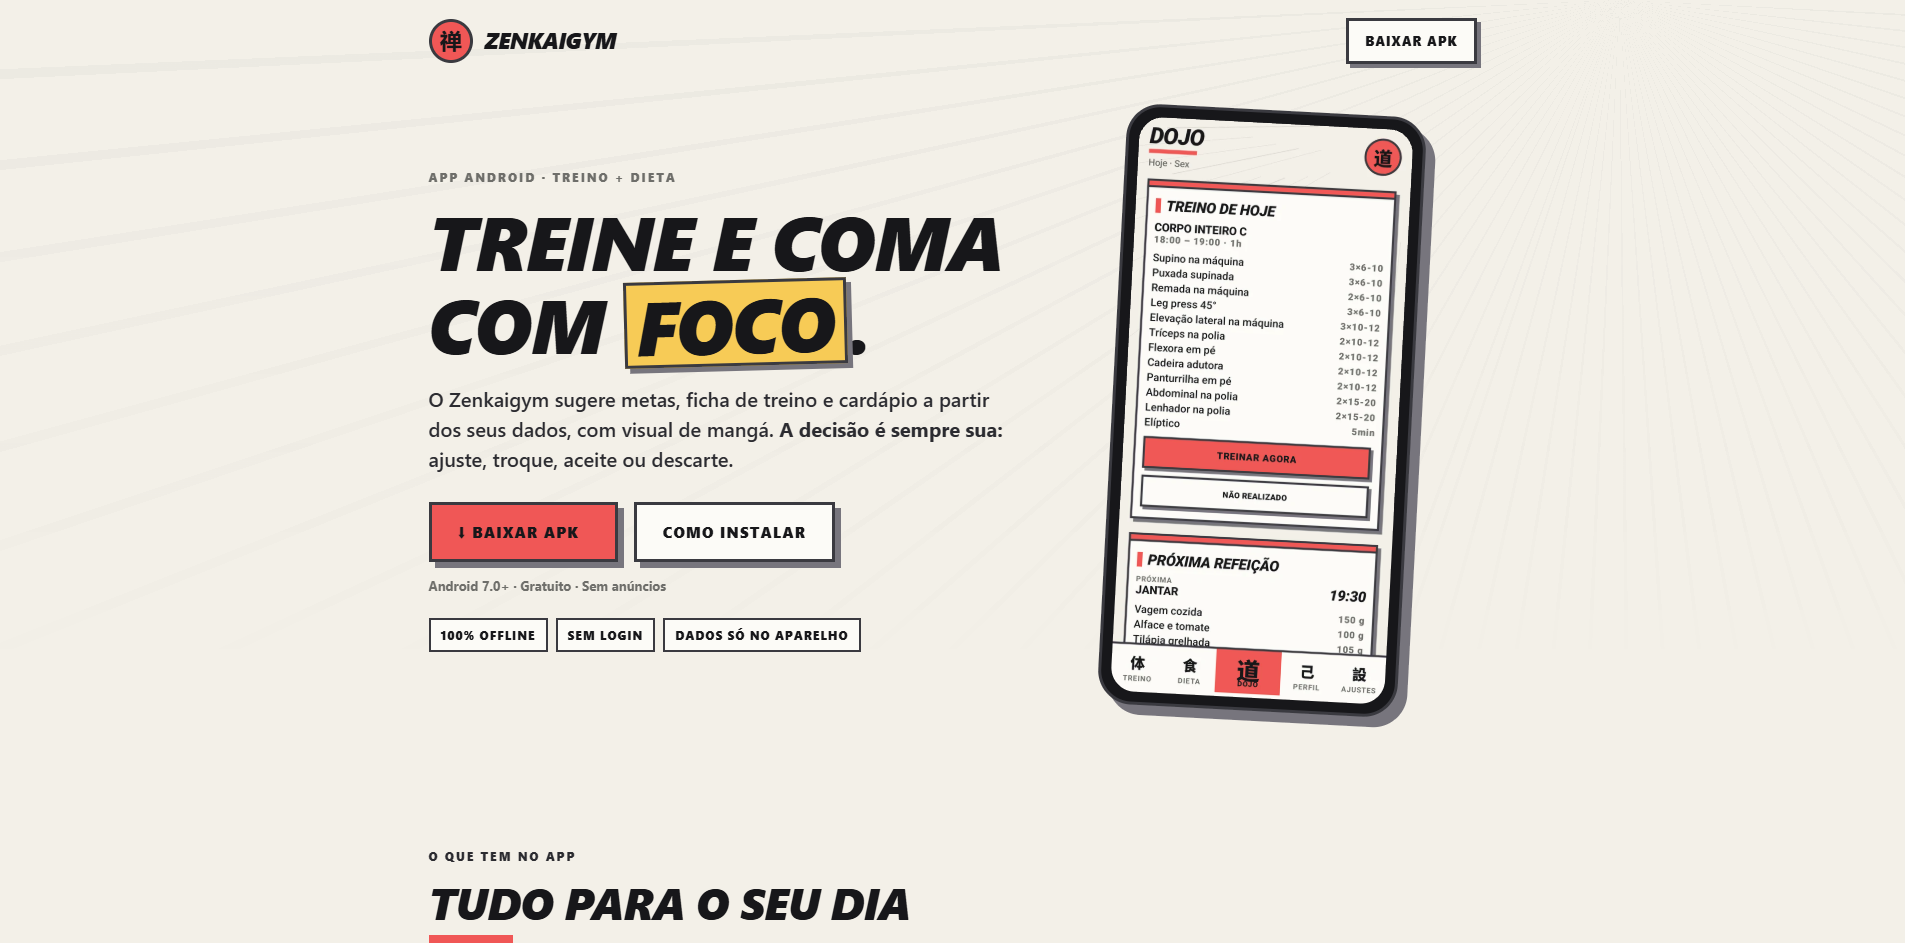
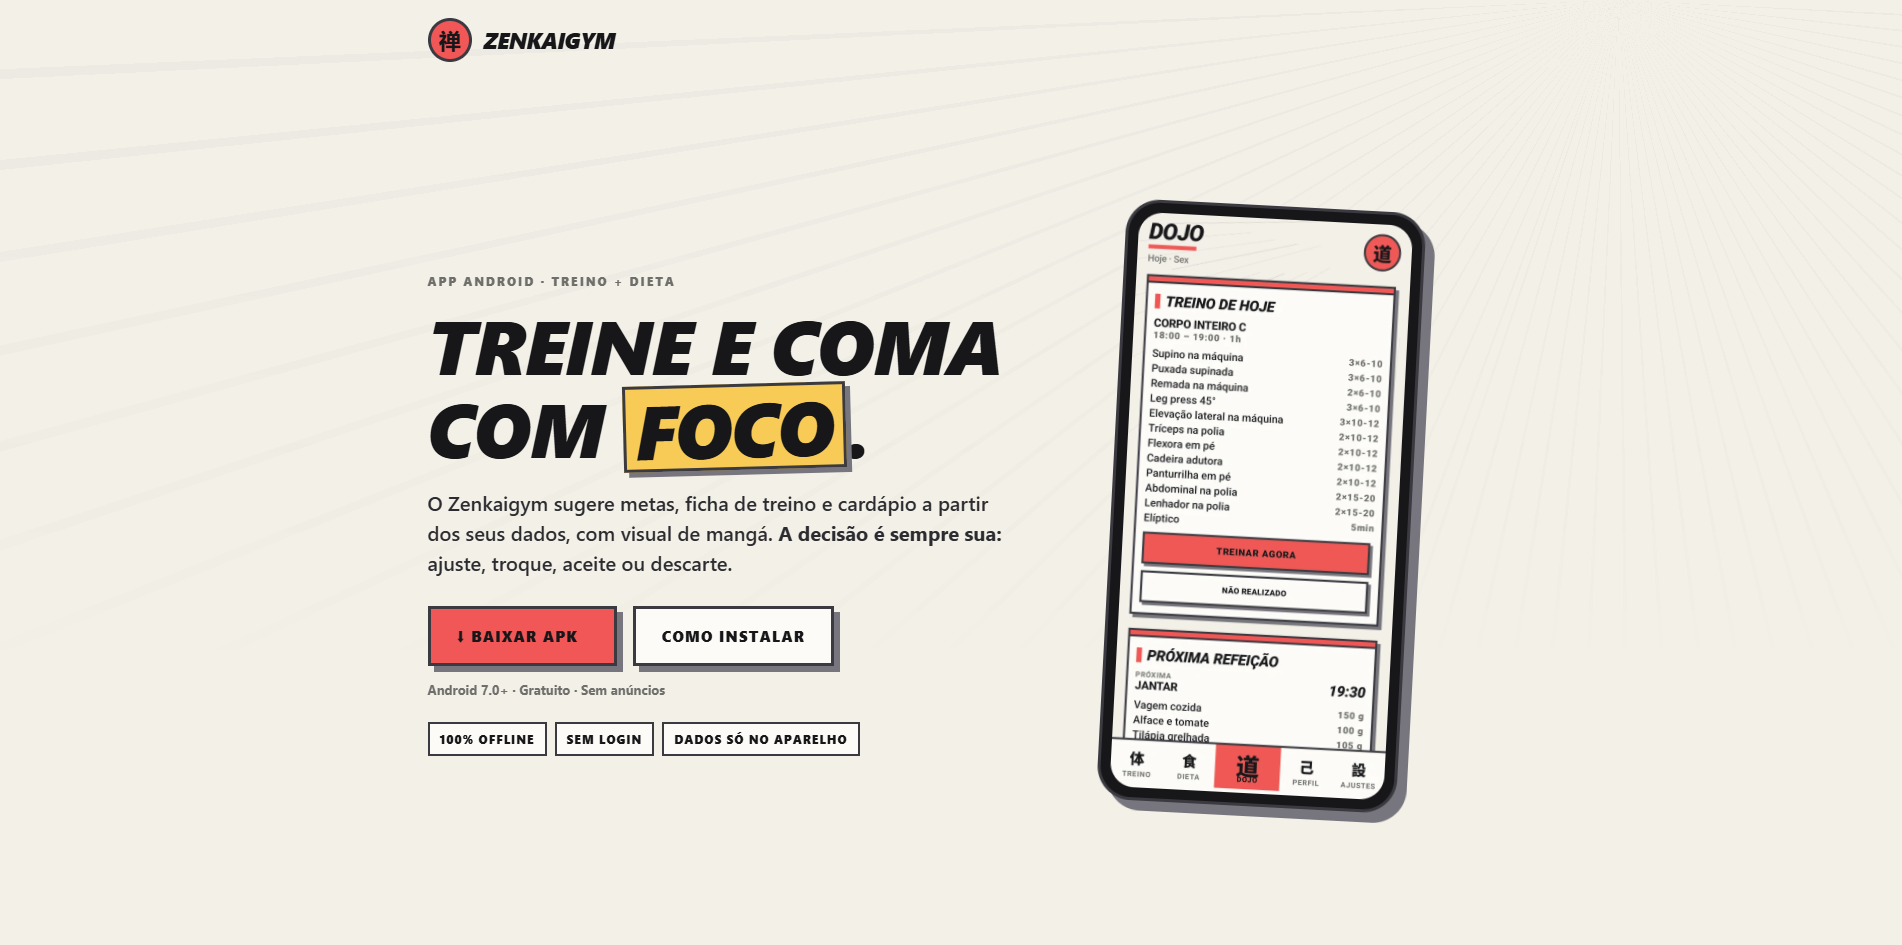
feat: rotate multiple images in project cards

diff --git a/components/home/projects-section.tsx b/components/home/projects-section.tsx
@@ -1,6 +1,6 @@
 "use client";
 
-import { useState } from "react";
+import { useEffect, useState } from "react";
 import { useLocale } from "@/lib/locale-context";
 import { content } from "@/lib/content";
 import { ExternalLink, Github, Plus } from "lucide-react";
@@ -13,6 +13,32 @@ const PROJECT_HUES: Record<string, number> = {
   Zenkaigym: 335,
 };
 const FALLBACK_HUES = [215, 150, 335, 20, 280];
+
+function ProjectImages({ images, alt }: { images: string[]; alt: string }) {
+  const [current, setCurrent] = useState(0);
+
+  useEffect(() => {
+    if (images.length < 2) return;
+    const id = setInterval(() => setCurrent((c) => (c + 1) % images.length), 4000);
+    return () => clearInterval(id);
+  }, [images.length]);
+
+  return (
+    <>
+      {images.map((src, i) => (
+        // eslint-disable-next-line @next/next/no-img-element
+        <img
+          key={src}
+          src={src}
+          alt={alt}
+          className={`absolute inset-0 h-full w-full object-cover object-top transition-opacity duration-700 ${
+            i === current ? "opacity-100" : "opacity-0"
+          }`}
+        />
+      ))}
+    </>
+  );
+}
 
 export function ProjectsSection() {
   const { locale } = useLocale();
@@ -119,14 +145,8 @@ export function ProjectsSection() {
                           background: `conic-gradient(from 210deg at 42% 58%, hsl(${hue} 90% 72%), hsl(${hue + 70} 90% 66%), hsl(${hue + 150} 85% 72%), hsl(${hue} 90% 72%))`,
                         }}
                       >
-                        {"image" in project && project.image ? (
-                          // eslint-disable-next-line @next/next/no-img-element
-                          <img
-                            src={project.image}
-                            alt={project.title}
-                            loading="lazy"
-                            className="absolute inset-0 h-full w-full object-cover object-top"
-                          />
+                        {"images" in project && project.images.length > 0 ? (
+                          <ProjectImages images={project.images} alt={project.title} />
                         ) : (
                           <>
                             <div
